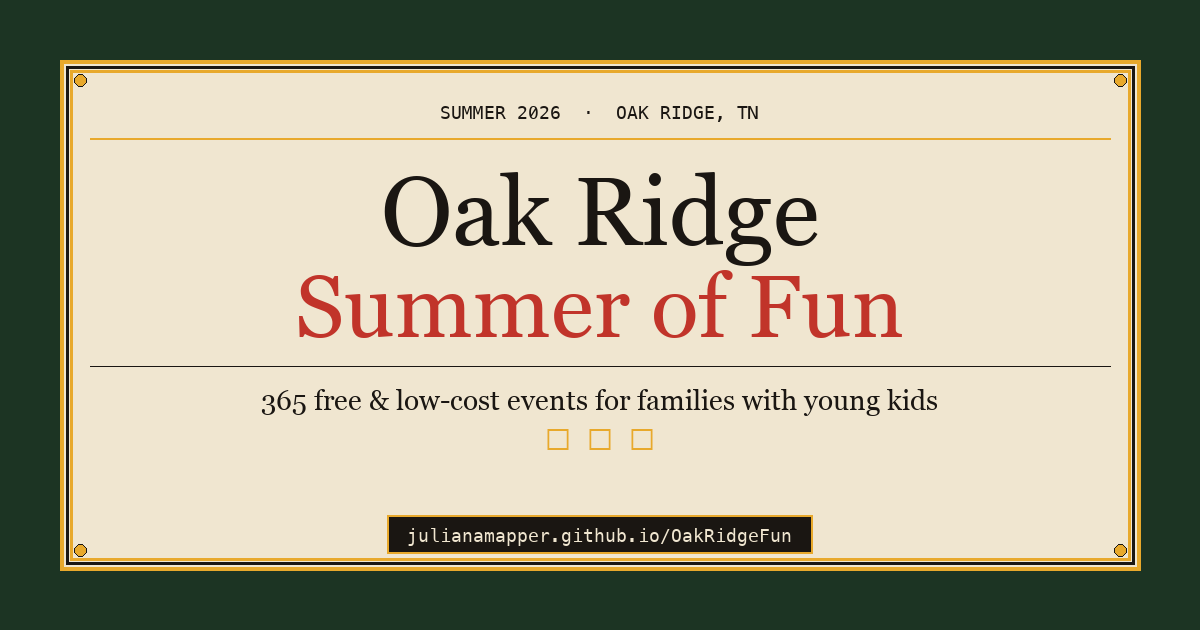
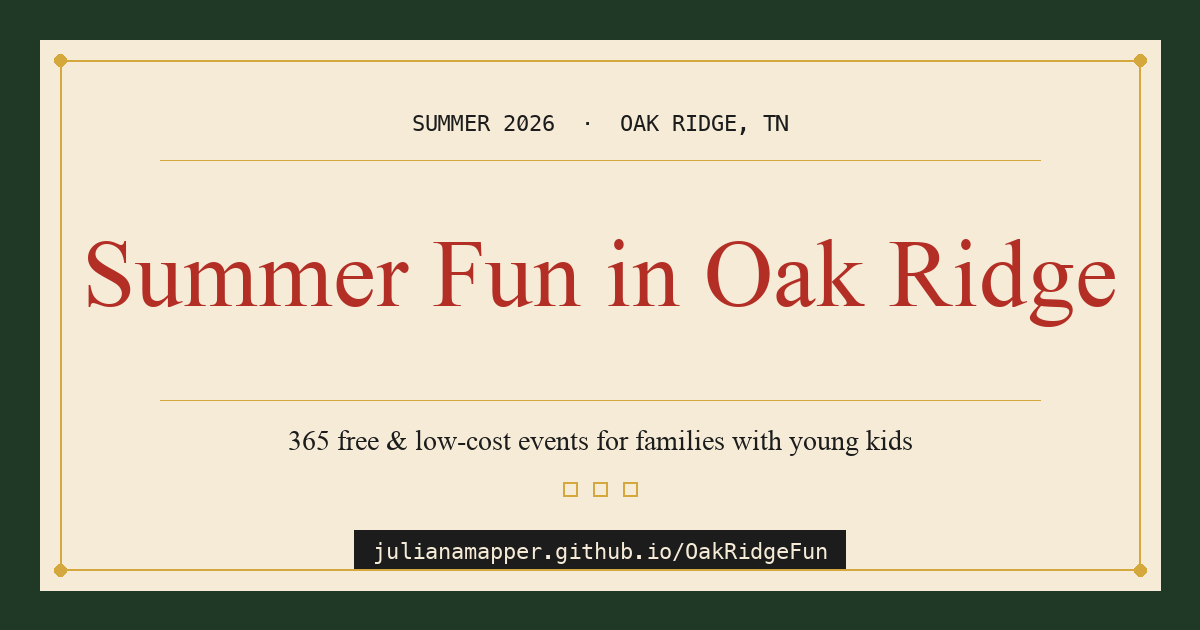
Update share image to "Summer Fun in Oak Ridge"; refresh og:description

Changed region(s): [[0.0308, 0.0603, 0.9867, 0.9651], [0.2158, 0.6032, 0.8017, 0.7238], [0.4933, 0.754, 0.5242, 0.7841]]

diff --git a/index.html b/index.html
@@ -6,7 +6,7 @@
 <title>Free Summer Fun — Oak Ridge 2026</title>
 <meta name="description" content="A volunteer-built guide to 1,700+ free and low-cost summer 2026 events, parks, and outdoor adventures for families with young kids in Oak Ridge, Illinois.">
 <meta property="og:title" content="Oak Ridge Summer of Fun">
-<meta property="og:description" content="1,700+ free & low-cost summer events, parks, and outdoor adventures for Oak Ridge area, IL families.">
+<meta property="og:description" content="365 free & low-cost summer 2026 events for Oak Ridge, TN families with young kids.">
 <meta property="og:type" content="website">
 <meta property="og:url" content="https://julianamapper.github.io/OakRidgeFun/">
 <meta property="og:image" content="https://julianamapper.github.io/OakRidgeFun/og-preview.png">